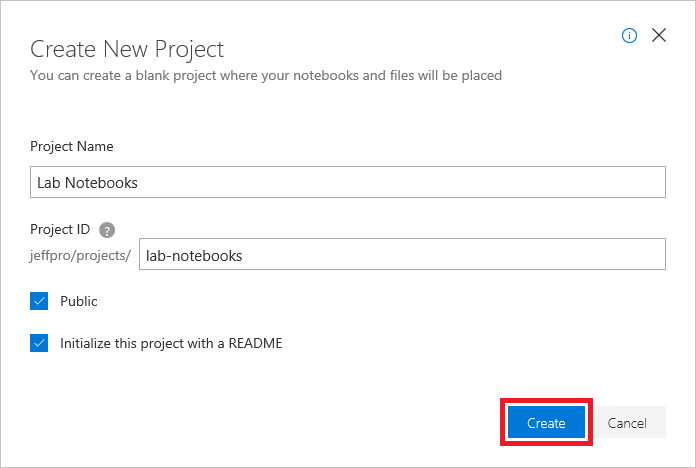
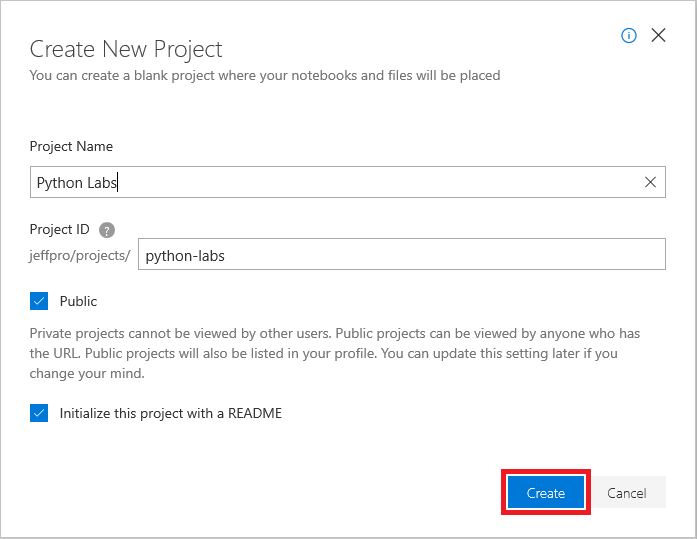
First edits to unit 2

diff --git a/Object-Oriented Programming in Python/includes/1-create-class.md b/Object-Oriented Programming in Python/includes/1-create-class.md
@@ -1,8 +1,6 @@
 # Create a class
 
-In OOP terms, a class defines how to create a Python object. You can use a class to create as many objects as you need, but the class must describe how to create an object before it can create any objects at all.
-
-In this lesson, you will create a class in Python and then use the class to instantiate an object. The term "instantiate" is just a fancy way of saying that Python uses the class to create an object. Just as you use a blueprint to create a house or a recipe to create a cookie, Python uses classes to create objects.
+The first step in writing object-oriented code is writing the classes from which objects will be created. In this unit, you will create a class in Python and then use the class to instantiate an object. The term "instantiate" is just a fancy way of saying that Python uses the class to create an object by allocating memory for the object and copying the object's code and data into memory. Just as you use a blueprint to create a house or a recipe to create a cookie, Python uses classes to create objects.
 
 To run your Python code, you will use [Jupyter notebooks](https://jupyter.org/). Jupyter is an environment based on [IPython](https://ipython.org/) that facilitates interactive programming and data analysis using a variety of programming languages, including Python. Jupyter notebooks enjoy widespread use in research and academia for mathematical modeling, machine learning, statistical analysis, and for teaching and learning how to code.
 
@@ -10,19 +8,17 @@ To run your Python code, you will use [Jupyter notebooks](https://jupyter.org/).
 
 [Azure Notebooks](https://blogs.msdn.microsoft.com/uk_faculty_connection/2017/06/10/guide-to-the-microsoft-azure-notebooks-for-students/) is a cloud-based platform for building and running [Jupyter notebooks](http://jupyter.org/). Azure Notebooks provide Jupyter as a service for free. It's a convenient way to build notebooks and to share them with others without having to install and manage a Jupyter server. And it's completely Web-based, making it an ideal solution for online collaboration.
 
-Azure notebooks are created through the portal at https://notebooks.azure.com and require nothing more than a browser and a [Microsoft account](https://account.microsoft.com/account). Notebooks are contained in projects, whose purpose is to group related notebooks. In this exercise, you will create a new project and then create a notebook inside it.
-
-1. If you don't have a Microsoft account, go to https://account.microsoft.com/account and create one. Having a Microsoft account gives you access to a wealth of resources, many of which are free. Microsoft accounts are free as well.
+Azure notebooks are created through the portal at https://notebooks.azure.com and require nothing more than a browser and a [Microsoft account](https://account.microsoft.com/account). Notebooks are contained in projects, whose purpose is to group related notebooks. Let's begin by creating a project and then creating a notebook inside it.
 
 1. Navigate to https://notebooks.azure.com in your browser and sign in using your Microsoft account. Click **My Projects** in the menu at the top of the page. Then click the **+ New Project** button at the top of the "My Projects" page.
 
-1. Create a new project named "Lab Notebooks" or something similar.
+1. Create a new project named "Python Labs" or something similar.
 
 	![Creating a project](media/add-project.png)
 
 	_Creating a project_
 
-	Leaving the "Public" box checked makes it easy to share notebooks later on. You can also go into project settings once a project is created and change its visibility to public or private.  
+	Checking the "Public" box makes it easy to share notebooks later on. If you would prefer to keep the notebooks in this project private, make sure the box is unchecked. You can also go into project settings once a project is created and change its visibility to public or private.  
 
 1. Click **+ New** and select **Notebook** from the menu to add a notebook to the project.
 
@@ -40,67 +36,61 @@ Azure notebooks are created through the portal at https://notebooks.azure.com an
 
 1. Click the notebook to open it for editing.
 
-You can create additional projects and notebooks as you work with Azure Notebooks. You can create notebooks from scratch, or you can upload existing notebooks. And once a notebook is created or uploaded, you can take advantage of Azure compute resources to run the notebook and leverage popular Python libraries such as [Keras](https://keras.io/), [NumPy](http://www.numpy.org/), [Pandas](https://pandas.pydata.org/), [Matplotlib](https://matplotlib.org/), and [Scikit-learn](https://scikit-learn.org/stable/index.html).
+You can create additional projects and notebooks as you work with Azure Notebooks. You can create notebooks from scratch, or you can upload existing notebooks. And once a notebook is created or uploaded, you can take advantage of Azure compute resources to run the notebook and leverage popular Python libraries such as [Pandas](https://pandas.pydata.org/) and [Scikit-learn](https://scikit-learn.org/stable/index.html).
 
 ## OOP in Python
 
 Everything is an object in Python. It would be easy to confuse the Python programming paradigm, the method used to create code, with the underlying language concepts. A programming paradigm would allow you to use the [functional, imperative, object-oriented, or procedural coding styles](https://blog.newrelic.com/engineering/python-programming-styles/). However, no matter which programming paradigm you use, Python itself uses objects for everything.
 
-This section is about Python as a language. Later, you will learn about the OOP programming paradigm that Python supports.
+1. To see how objects work in Python, return to the notebook you created a moment ago and type or paste the type the following code into the notebook's first cell:
 
-To see how objects work in Python, return to the notebook you created a moment ago and type or paste the type the following code into the notebook's first cell:
+	```python
+	print(type(1))
+	print(type("Hello There!"))
+	print(type(1.1))
+	print(type(True))
+	```
 
-```python
-print(type(1))
-print(type("Hello There!"))
-print(type(1.1))
-print(type(True))
-```
+	The `print()` function writes output to the screen. The `type()` function shows an object's underlying class.
 
-You use the `print()` function to display output on screen. The `type` function shows an object's underlying class. In this case, 1, "Hello There!," 1.1, and True are all objects, which means that they have a class associated with them. Click Run, and you see the output shown here:
+1. Make sure **Code** is selected in the drop-down list so the cell is a code cell, and then click the **Run** button to execute the code.
 
-![Displaying the classes associated with objects](media/tk.png)
+	![Displaying the classes associated with objects](media/run-cell-1.png)
+	
+	_Displaying the classes associated with objects_
 
-_Displaying the classes associated with objects_
+	The output shows that 1 is an instance of Python's built-in `int` class, while "Hello There!" has a class of `str`. Notice that Python uses different classes for 1 and 1.1; the class of 1.1 is `float`. If something has a truth value, True or False, then it relies on the `bool` class.
 
-The output shows that the object 1 has a class of `int`, while "Hello There!" has a class of `str`. Notice that Python uses different classes for 1 and 1.1; the class of 1.1 is `float`. If something has a truth value, True or False, then it relies on the `bool` class.
+	You could easily test other kinds of data (feel free to experiment!), but be assured that any sort of data you try has a associated class, whether one that is built into Python or one you have written yourself.
 
-You could easily test other kinds of data (go ahead if you want to experiment!), but be assured that any sort of data you try has a associated class, which means that the data is an object: an instance of that class.
+1. Most classes have methods associated with them. Type the following code into the next cell and click **Run** to execute it:
 
-Most classes have methods associated with them. Type the following code into the next cell:
+	```python
+	print(dir(1))
+	```
 
-```python
-print(dir(1))
-```
+	The `dir()` function provides a list of an object's methods. You sometimes hear methods referred to as *functions* when working with Python. The two terms are synonymous, but you avoid confusion when talking with other people if you simply call them methods. 
 
-The `dir()` function provides a directory of things you can do with an object: its methods. You also see methods referred to as *functions* when working with Python. The two terms are viewed as synonymous, but you avoid confusion when talking with other people if you simply call them methods. 
+	![Listing an object's methods](media/run-cell-2.png)
+	
+	_Listing an object's methods_
 
-Click **Run**, and you see the output shown here:
+	All the entries you see, such as `to_bytes`, are methods. A method represents an action that you can perform on an object. For example, `to_bytes()` outputs the object value in byte format, which is just a special way of looking at the data. Don't worry about this particular method for now. Even though these methods exist for any value, let's try them out with a variable.
 
-![Displaying the methods associated with objects](media/tk.png)
+1. Notice the `__str__` method in the list. This method turns a value into a `str` (string) type. An object's type is simply the class it was created from. So the type of 1 is `int`.
 
-_Displaying the methods associated with objects_
+	Run the following code in the notebook's next cell:
 
-All the entries you see, such as `to_bytes()`, are methods. Remember that a method always represents an action—something you can do. For example, `to_bytes(`) outputs the object value in byte format, which is just a special way of looking at the data. Don't worry about this particular method for now. Even though the methods exist for any value, let's try them out with a variable.
+	```python
+	myVar = 1
+	print(type(myVar.__str__()))
+	```
 
-Notice the `__str__()` method in the list. This method turns the value into a `str` (string) type. Saying type means that an object relies on a certain class. So, the type of 1 is `int`.
+	The first line is an assignment. You're assigning the value 1 to an object named `myVar`. The `myVar` object now has an attribute: the value 1. The second line of code calls the `__str__()` method that is part of the `int` class and therefore present in the `myVar` object.
 
-Type the following code into the next cell:
+	What does the output from the code tell you?
 
-```python
-myVar = 1
-print(type(myVar.__str__()))
-```
-
-The first line is an assignment. You're assigning the value 1 to an object named `myVar`. The `myVar` object now has an attribute, that of the value 1. The second line of code calls the `__str__()` method that is part of the `int` class and therefore present in the `myVar` object.
-
-Click **Run** and you see the output shown here:
-
-![Using methods changes objects](media/tk.png)
-
-_Using methods changes objects_
-
-The `__str__()` method has created as new object from `myVar` of type `str`. The `myVar` object is still the same, completely untouched; it's still of type `int`. The new object – which doesn't have a name because you haven't assigned it one – is of type `str`.
+	The `__str__()` method has created as new object from `myVar` of type `str`. The `myVar` object is still the same, completely untouched; it's still of type `int`. The new object – which doesn't have a name because you haven't assigned it one – is of type `str`.
 
 You often use methods to create new objects that have attributes you need from existing objects. At this point, you have enough information about Python classes and objects to start creating a class of your own.
 
